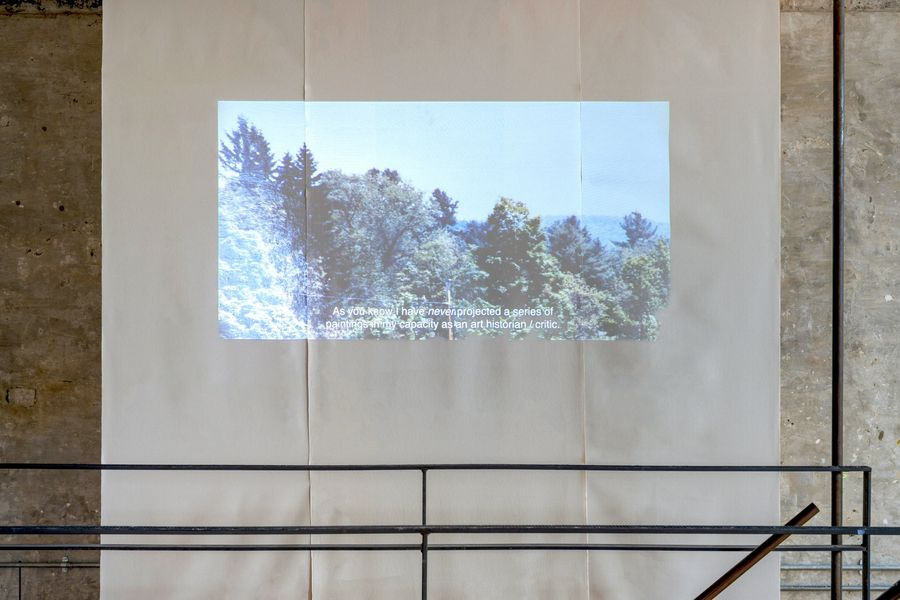
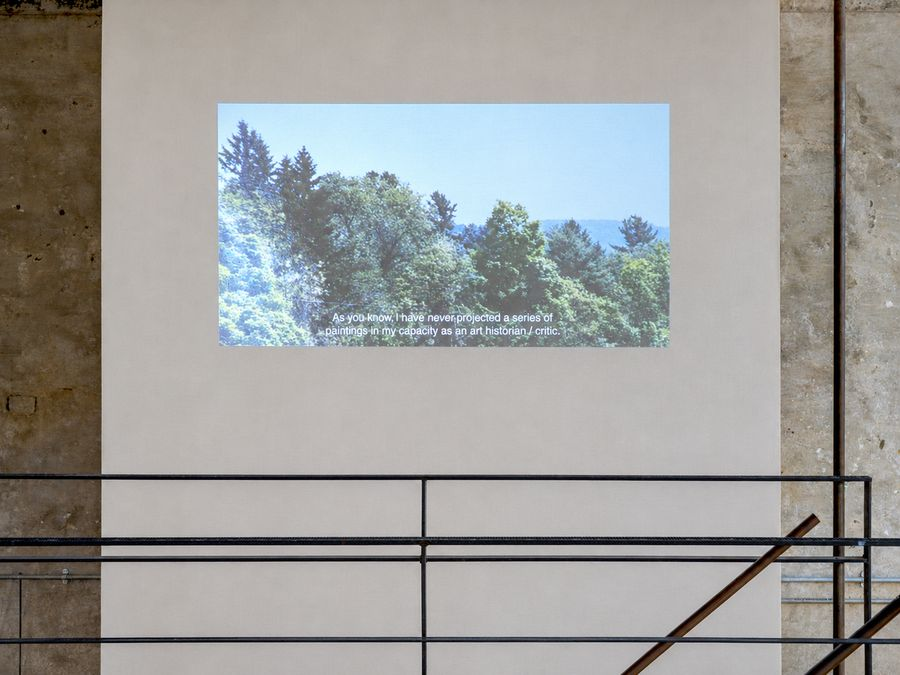
Replace Conversation About Trees installation view with cleaned-up version
Claude-Session: https://claude.ai/code/session_01JVoaYGW79WXXRpj5iE4Fxm

diff --git a/index.html b/index.html
@@ -6,5 +6,5 @@
 <link rel="stylesheet" href="style.css">
 </head><body>
 <header><a class="name" href="index.html">Abraham Adams</a><nav><a href="index.html" aria-current="page">works</a><a href="books.html">books</a><a href="exhibitions.html">exhibitions</a><a href="info.html">info</a></nav></header>
-<main><h1 class="sr">Works</h1><div class="grid"><a class="tile" href="works/variations-for-the-healing.html"><span class="frame"><img src="img/variations-for-the-healing-01-t.jpg" width="600" height="900" alt="Variations for the Healing" loading="lazy"></span><span class="label"><em>Variations for the Healing</em>, 2025–26</span></a><a class="tile" href="works/a-conversation-about-trees.html"><span class="frame"><img src="img/a-conversation-about-trees-01-t.jpg" width="900" height="600" alt="A Conversation About Trees" loading="lazy"></span><span class="label"><em>A Conversation About Trees</em>, 2025</span></a><a class="tile" href="works/more-heavens.html"><span class="frame"><img src="img/more-heavens-01-t.jpg" width="900" height="600" alt="More Heavens" loading="lazy"></span><span class="label"><em>More Heavens</em>, 2025–</span></a><a class="tile" href="works/contact.html"><span class="frame"><img src="img/contact-01-t.jpg" width="720" height="900" alt="Contact" loading="lazy"></span><span class="label"><em>Contact</em>, 2024–</span></a><a class="tile" href="works/after.html"><span class="frame"><img src="img/after-01-t.jpg" width="900" height="675" alt="After" loading="lazy"></span><span class="label"><em>After</em>, 2021–</span></a><a class="tile" href="works/ambulance-chasers.html"><span class="frame"><img src="img/ambulance-chasers-01-t.jpg" width="900" height="810" alt="Ambulance Chasers" loading="lazy"></span><span class="label"><em>Ambulance Chasers</em>, 2022</span></a><a class="tile" href="works/tony-the-drunk-is-a-thief.html"><span class="frame"><img src="img/tony-the-drunk-is-a-thief-01-t.jpg" width="900" height="681" alt="Tony the Drunk Is a Thief" loading="lazy"></span><span class="label"><em>Tony the Drunk Is a Thief</em>, 2018</span></a><a class="tile" href="works/nothing-in-moma.html"><span class="frame"><img src="img/nothing-in-moma-01-t.jpg" width="900" height="600" alt="Nothing in MoMA" loading="lazy"></span><span class="label"><em>Nothing in MoMA</em>, 2018</span></a><a class="tile" href="works/before.html"><span class="frame"><img src="img/before-01-t.jpg" width="899" height="900" alt="Before" loading="lazy"></span><span class="label"><em>Before</em>, 2016</span></a><a class="tile" href="works/my-dark-blue-rain-drenched-flower.html"><span class="frame"><img src="img/my-dark-blue-rain-drenched-flower-01-t.jpg" width="900" height="637" alt="My Dark-Blue Rain-Drenched Flower" loading="lazy"></span><span class="label"><em>My Dark-Blue Rain-Drenched Flower</em>, 2015</span></a><a class="tile" href="works/installation-for-a-photograph.html"><span class="frame"><img src="img/installation-for-a-photograph-01-t.jpg" width="674" height="900" alt="Installation for a Photograph" loading="lazy"></span><span class="label"><em>Installation for a Photograph</em>, 2014–15</span></a></div></main>
+<main><h1 class="sr">Works</h1><div class="grid"><a class="tile" href="works/variations-for-the-healing.html"><span class="frame"><img src="img/variations-for-the-healing-01-t.jpg" width="600" height="900" alt="Variations for the Healing" loading="lazy"></span><span class="label"><em>Variations for the Healing</em>, 2025–26</span></a><a class="tile" href="works/a-conversation-about-trees.html"><span class="frame"><img src="img/a-conversation-about-trees-01-t.jpg" width="900" height="675" alt="A Conversation About Trees" loading="lazy"></span><span class="label"><em>A Conversation About Trees</em>, 2025</span></a><a class="tile" href="works/more-heavens.html"><span class="frame"><img src="img/more-heavens-01-t.jpg" width="900" height="600" alt="More Heavens" loading="lazy"></span><span class="label"><em>More Heavens</em>, 2025–</span></a><a class="tile" href="works/contact.html"><span class="frame"><img src="img/contact-01-t.jpg" width="720" height="900" alt="Contact" loading="lazy"></span><span class="label"><em>Contact</em>, 2024–</span></a><a class="tile" href="works/after.html"><span class="frame"><img src="img/after-01-t.jpg" width="900" height="675" alt="After" loading="lazy"></span><span class="label"><em>After</em>, 2021–</span></a><a class="tile" href="works/ambulance-chasers.html"><span class="frame"><img src="img/ambulance-chasers-01-t.jpg" width="900" height="810" alt="Ambulance Chasers" loading="lazy"></span><span class="label"><em>Ambulance Chasers</em>, 2022</span></a><a class="tile" href="works/tony-the-drunk-is-a-thief.html"><span class="frame"><img src="img/tony-the-drunk-is-a-thief-01-t.jpg" width="900" height="681" alt="Tony the Drunk Is a Thief" loading="lazy"></span><span class="label"><em>Tony the Drunk Is a Thief</em>, 2018</span></a><a class="tile" href="works/nothing-in-moma.html"><span class="frame"><img src="img/nothing-in-moma-01-t.jpg" width="900" height="600" alt="Nothing in MoMA" loading="lazy"></span><span class="label"><em>Nothing in MoMA</em>, 2018</span></a><a class="tile" href="works/before.html"><span class="frame"><img src="img/before-01-t.jpg" width="899" height="900" alt="Before" loading="lazy"></span><span class="label"><em>Before</em>, 2016</span></a><a class="tile" href="works/my-dark-blue-rain-drenched-flower.html"><span class="frame"><img src="img/my-dark-blue-rain-drenched-flower-01-t.jpg" width="900" height="637" alt="My Dark-Blue Rain-Drenched Flower" loading="lazy"></span><span class="label"><em>My Dark-Blue Rain-Drenched Flower</em>, 2015</span></a><a class="tile" href="works/installation-for-a-photograph.html"><span class="frame"><img src="img/installation-for-a-photograph-01-t.jpg" width="674" height="900" alt="Installation for a Photograph" loading="lazy"></span><span class="label"><em>Installation for a Photograph</em>, 2014–15</span></a></div></main>
 </body></html>

diff --git a/works/a-conversation-about-trees.html b/works/a-conversation-about-trees.html
@@ -6,5 +6,5 @@
 <link rel="stylesheet" href="../style.css">
 </head><body>
 <header><a class="name" href="../index.html">Abraham Adams</a><nav><a href="../index.html" aria-current="page">works</a><a href="../books.html">books</a><a href="../exhibitions.html">exhibitions</a><a href="../info.html">info</a></nav></header>
-<main><article class="work"><h1><em>A Conversation About Trees</em>, 2025</h1><p class="desc"><em>A Conversation About Trees</em> is a film companion to <em>More Heavens</em>, in which a psychoanalyst speculatively interprets the text of a dream by an artist who abandoned his practice.</p><figure><img src="../img/a-conversation-about-trees-01.jpg" width="2400" height="1600" alt="A Conversation About Trees, 2025" loading="eager"><figcaption>A Conversation About Trees, 2025. Digital video, 57 min. Installation view, “Memory Put a Walkway,” Lime Wharf, London.</figcaption></figure><figure><img src="../img/a-conversation-about-trees-02.jpg" width="2400" height="1261" alt="Still" loading="lazy"><figcaption>Still.</figcaption></figure></article></main>
+<main><article class="work"><h1><em>A Conversation About Trees</em>, 2025</h1><p class="desc"><em>A Conversation About Trees</em> is a film companion to <em>More Heavens</em>, in which a psychoanalyst speculatively interprets the text of a dream by an artist who abandoned his practice.</p><figure><img src="../img/a-conversation-about-trees-01.jpg" width="1448" height="1086" alt="A Conversation About Trees, 2025" loading="eager"><figcaption>A Conversation About Trees, 2025. Digital video, 57 min. Installation view, “Memory Put a Walkway,” Lime Wharf, London.</figcaption></figure><figure><img src="../img/a-conversation-about-trees-02.jpg" width="2400" height="1261" alt="Still" loading="lazy"><figcaption>Still.</figcaption></figure></article></main>
 </body></html>
